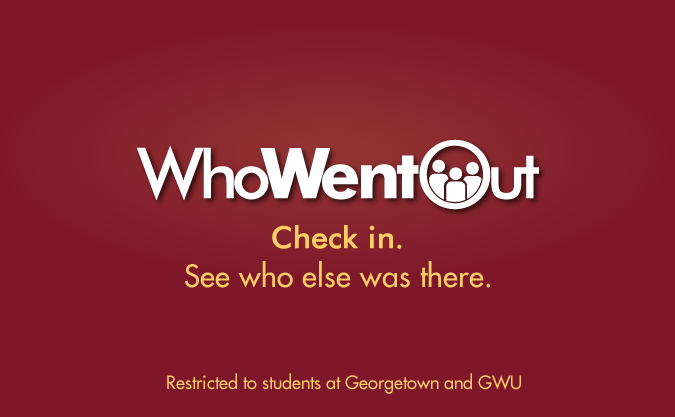
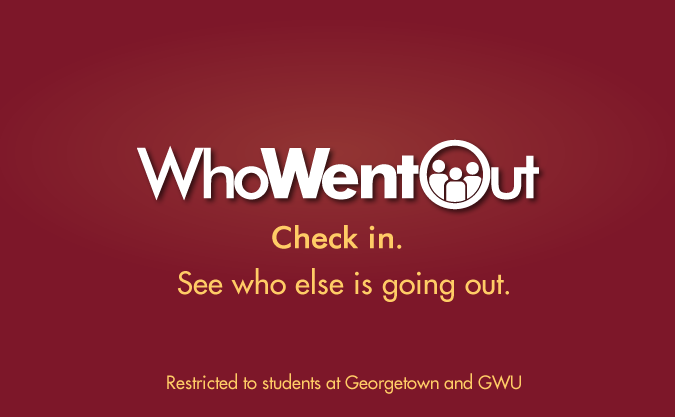
changed home page slogan to check in. see who else is going out.

Changed region(s): [[0.2489, 0.6235, 0.7467, 0.7482]]

diff --git a/whowentout/views/home.tpl.php b/whowentout/views/home.tpl.php
@@ -36,7 +36,7 @@
 
 <body id="home_page">
 
-    <img src="/images/home.png?version=2" />
+    <img src="/images/home.png?version=3" />
 
     <a href="/auth/login" class="login_button">Login with Facebook</a>
 
